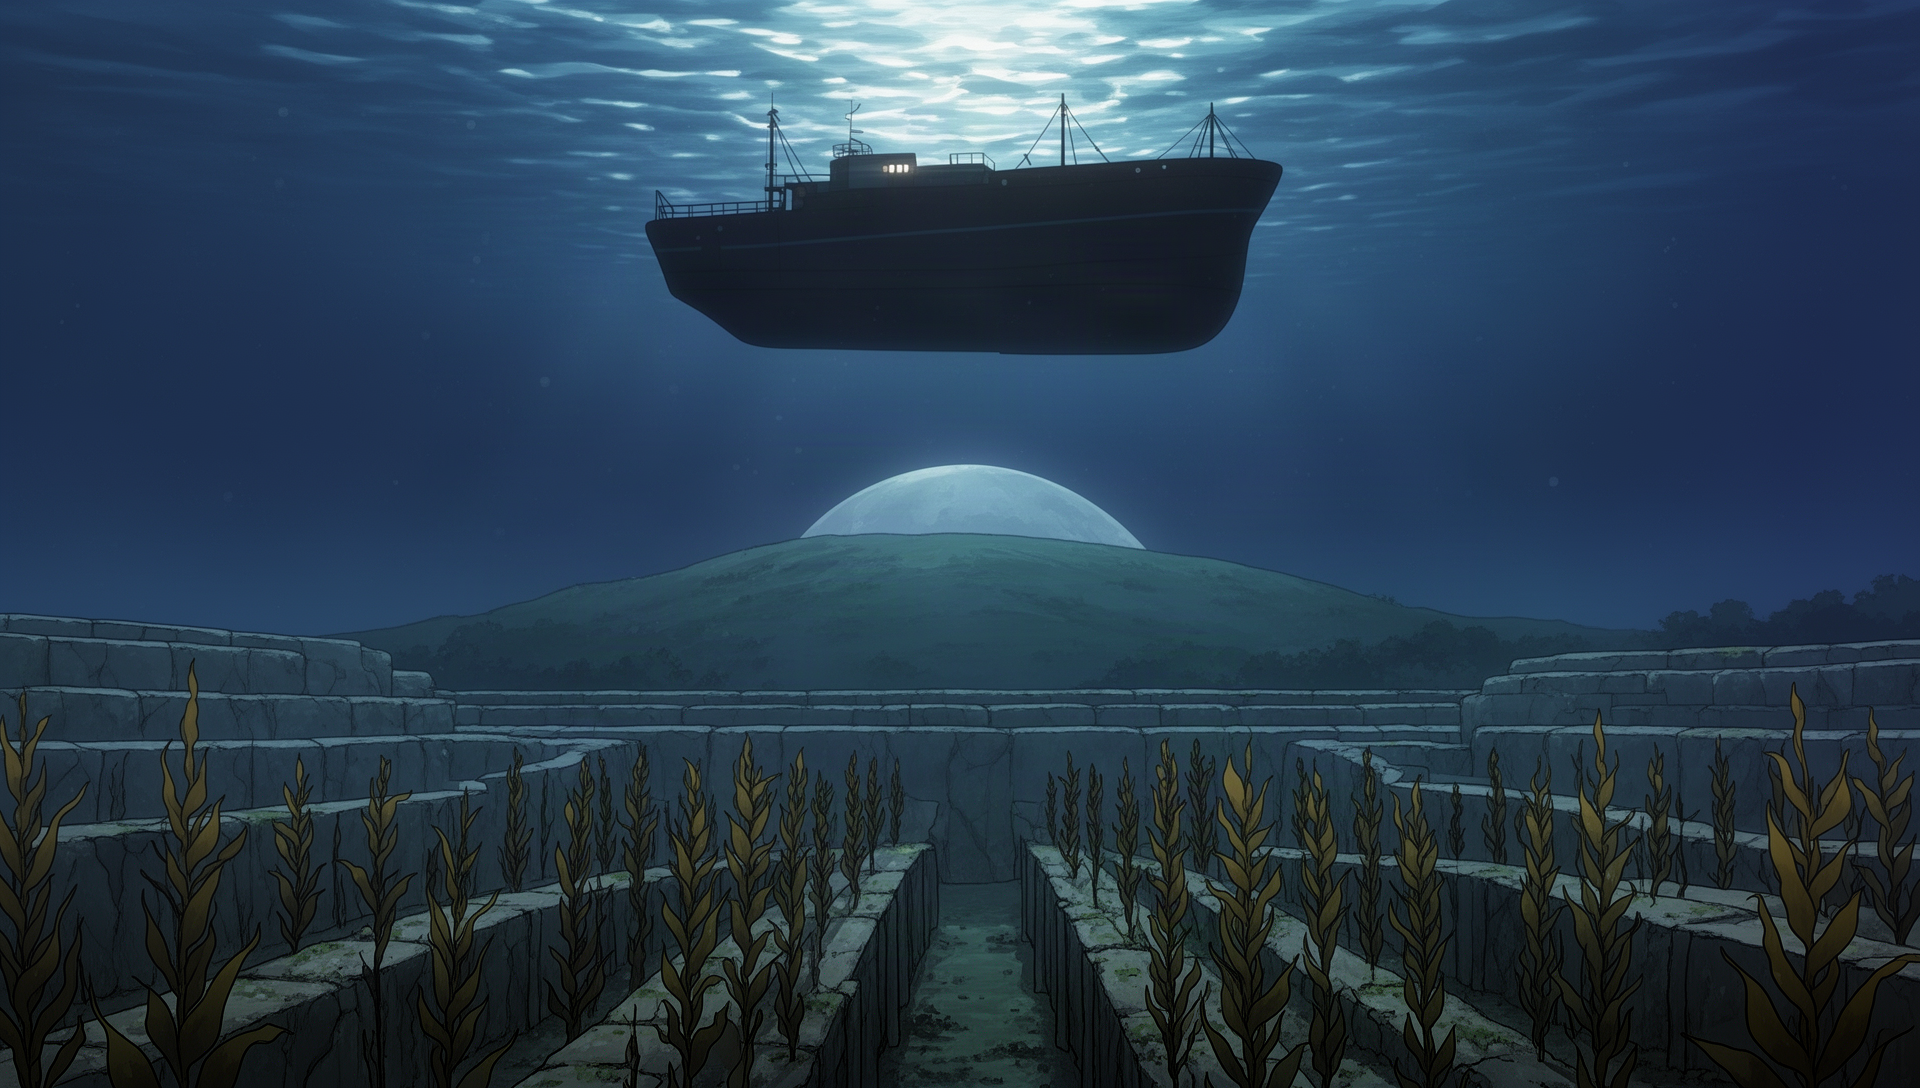
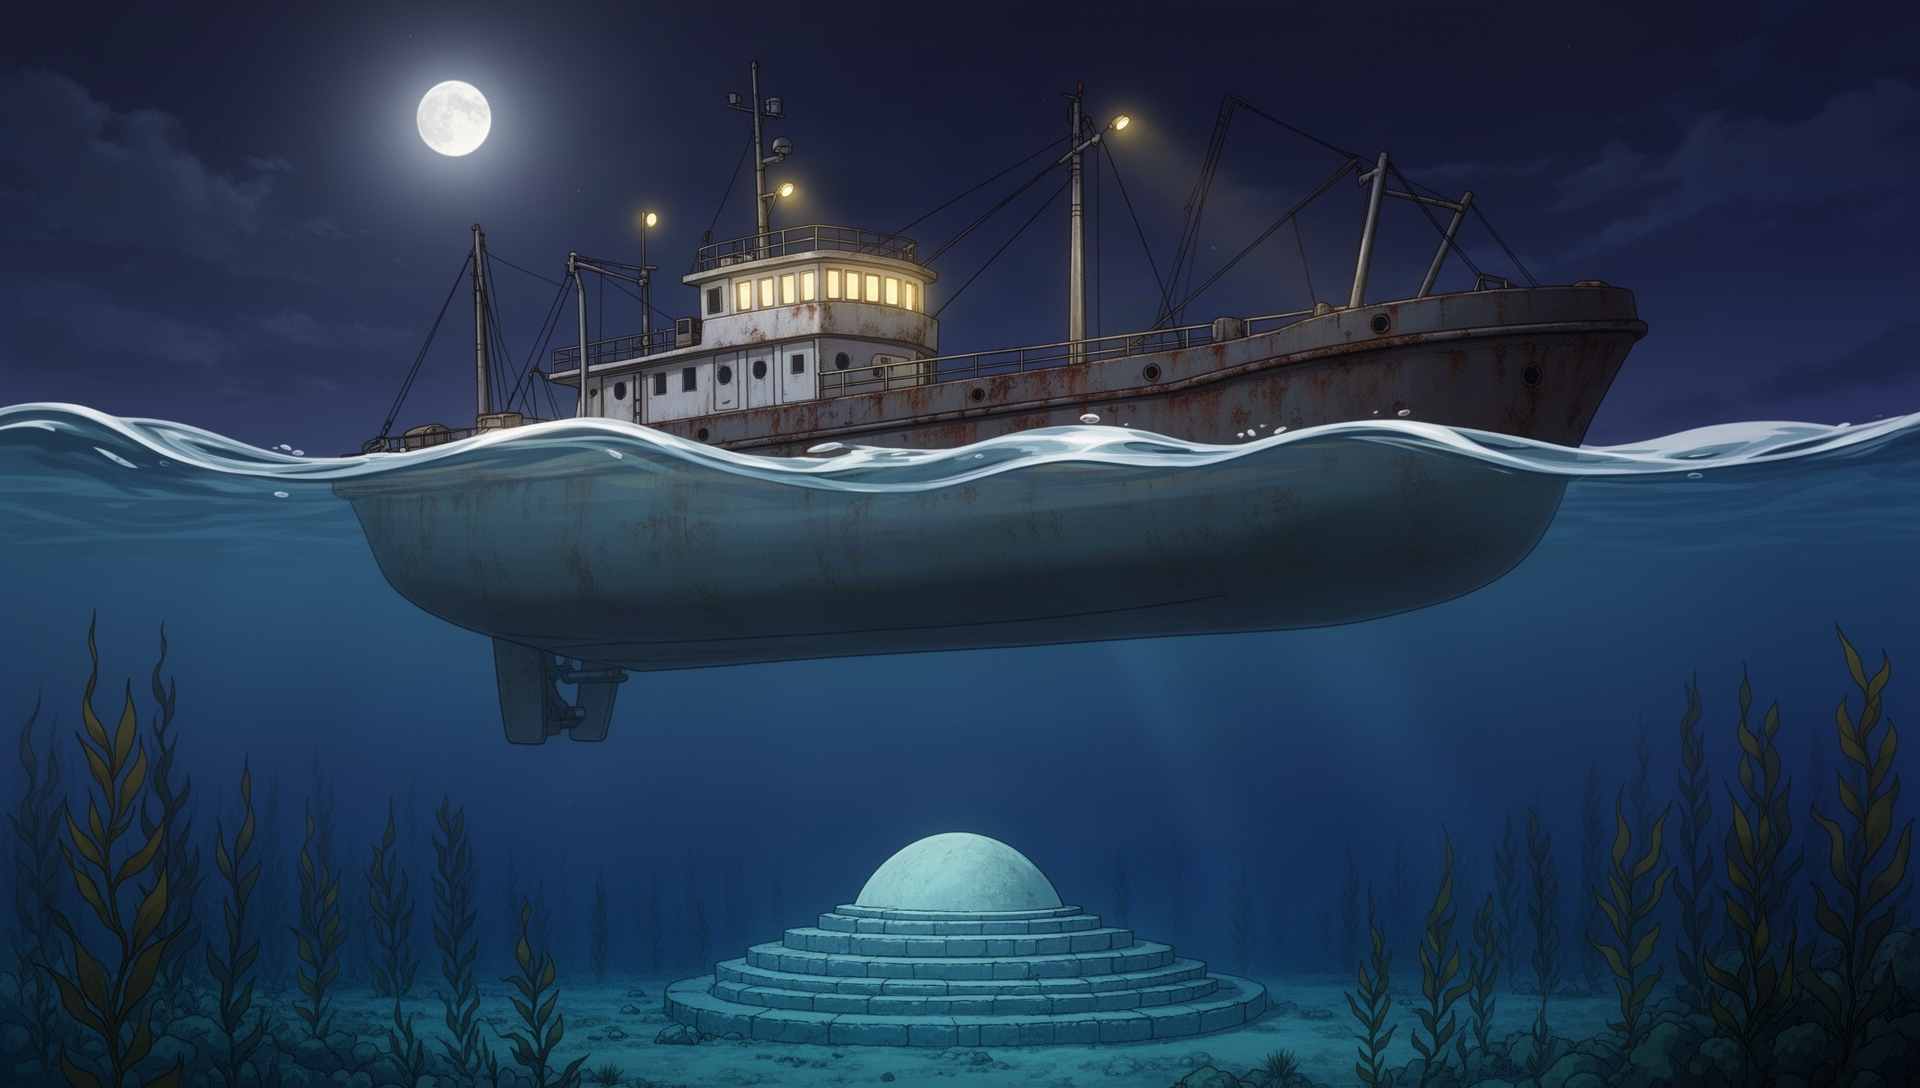
Barge and gunboats now float on the surface (waterline across the hull), not submerged

diff --git a/art/bible.md b/art/bible.md
@@ -63,8 +63,8 @@ New characters (head-and-shoulders portraits, `art/refs/ch02/portraits/`, cut-ou
 
 New emotions for existing characters: Wrack (tunic) baffled, shaken, shivering, despair, resolved; Sefa fierce; Oro delighted; Ione pain.
 
-Places: `places/dome_crown` (underwater at night, platform on the dome's crown), `dome_dark_half` (eleven dead lamps of the approved lamp design along the ribs), `net_racks`, `terraces_night` (barge hull overhead, forty metres up), `terrace_wrecked` (also `terrace_dusk`, the same picture darkened, for c02.s05), `hall_day` (no windows: the hold is under the sea), `burial_kelp` (carved marks on the stems, deliberately not readable letters).
+Places: `places/dome_crown` (underwater at night, platform on the dome's crown), `dome_dark_half` (eleven dead lamps of the approved lamp design along the ribs), `net_racks`, `terraces_night` (a split over-and-under view: the barge floats ON the surface, upper hull above the waves, lower hull below, the dome far below), `terrace_wrecked` (also `terrace_dusk`, the same picture darkened, for c02.s05), `hall_day` (no windows: the hold is under the sea), `burial_kelp` (carved marks on the stems, deliberately not readable letters).
 
-Illustrations (`art/refs/ch02/cg/`): `lamps`, `barge`, `gunboats` (blue shield crest on the bows, the same crest I drew on Wrack's jacket in chapter 1: the text says "the Halcyon crest" without describing it), `burial`, `needle` (Okonta alone stepping off the pale needle; earlier tries with Wrack and Sefa kept duplicating Wrack).
+Illustrations (`art/refs/ch02/cg/`): `lamps`, `barge`, `gunboats` (three gunboats floating on the surface, waterline across their hulls; blue shield crest on the bows, the same crest I drew on Wrack's jacket in chapter 1: the text says "the Halcyon crest" without describing it), `burial`, `needle` (Okonta alone stepping off the pale needle; earlier tries with Wrack and Sefa kept duplicating Wrack).
 
 Not shown in any image: the sludge's source ship details, the unnamed crew faces (rough).
